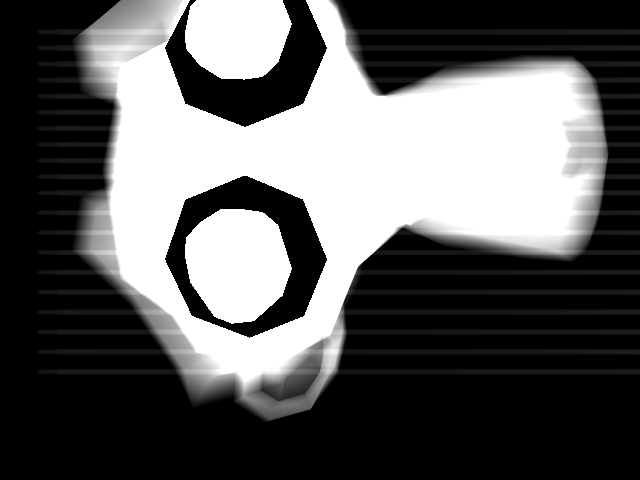
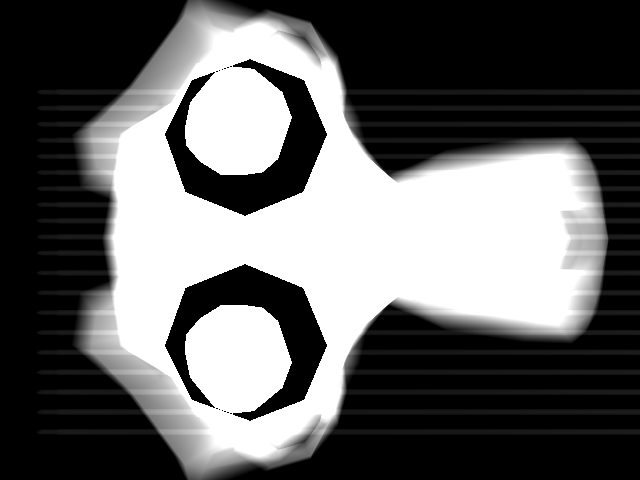
Working proof of concept

diff --git a/deepdrr/projector/projector.py b/deepdrr/projector/projector.py
@@ -640,21 +640,21 @@ class Projector(object):
             def stuff():
                 color, depth = render()
                 
-                # set all values less than 0 to 0
-                # color[color < 0] = 0
-                # color = np.abs(color)
+                # # set all values less than 0 to 0
+                # # color[color < 0] = 0
+                # # color = np.abs(color)
 
-                print(f"{color.shape=} {color.dtype=}")
+                # print(f"{color.shape=} {color.dtype=}")
 
-                print(f"{np.amin(color)=} {np.amax(color)=}")
-                print(f"{np.unique(color, return_counts=True)=}")
+                # print(f"{np.amin(color)=} {np.amax(color)=}")
+                # print(f"{np.unique(color, return_counts=True)=}")
 
-                # save to file
-                # remapped = np.interp(color[:,:,::-1], (0, 0.3), (0, 255)).astype(np.uint8)
-                remapped = np.interp(color[:,:,::-1], (np.amin(color), np.amax(color)), (0, 255)).astype(np.uint8)
-                print(f"{np.amin(remapped)=} {np.amax(remapped)=}")
-                cv2.imwrite('fdafsdsafd.png', remapped)
-                # cv2.imwrite('duck_depth.png', depth)
+                # # save to file
+                # # remapped = np.interp(color[:,:,::-1], (0, 0.3), (0, 255)).astype(np.uint8)
+                # remapped = np.interp(color[:,:,::-1], (np.amin(color), np.amax(color)), (0, 255)).astype(np.uint8)
+                # print(f"{np.amin(remapped)=} {np.amax(remapped)=}")
+                # cv2.imwrite('fdafsdsafd.png', remapped)
+                # # cv2.imwrite('duck_depth.png', depth)
                 return color*7
 
             color = stuff()

diff --git a/TODO.md b/TODO.md
@@ -4,6 +4,7 @@
 - Add tests
 - Ask about     from pycuda.autoinit import context
 - Get rid of macros
+- chmod 777 /dev/dri/renderD128
 
 # Features
 <!-- - Use winding order in renderer -->
